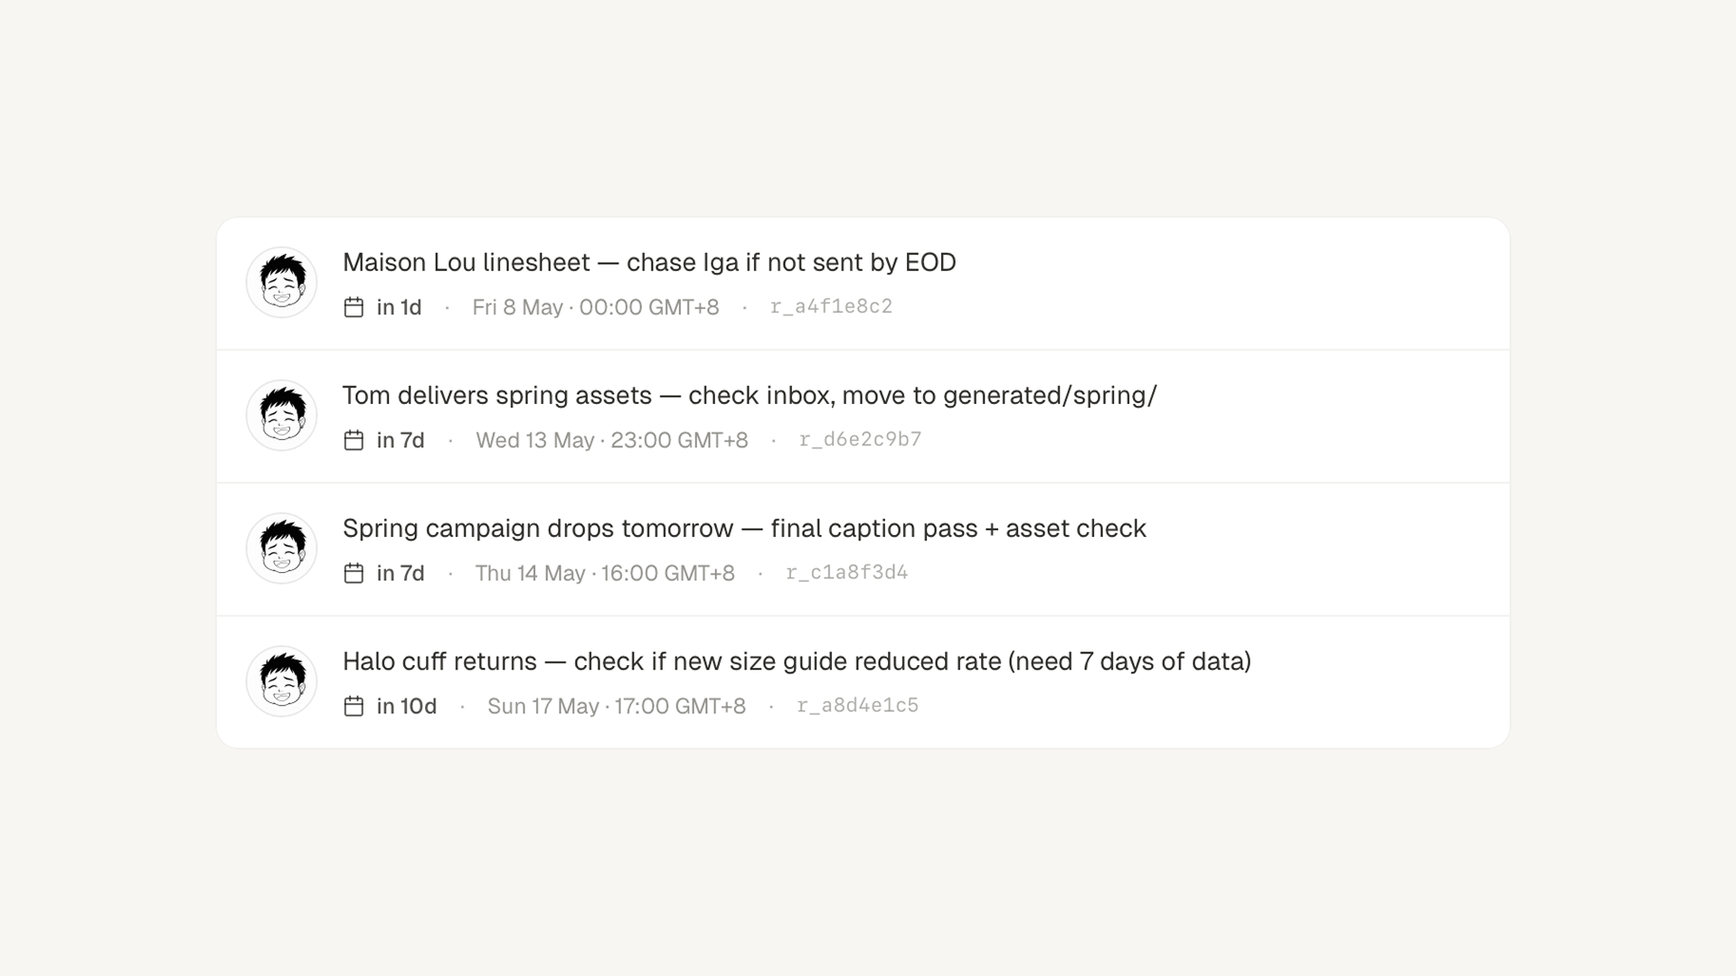
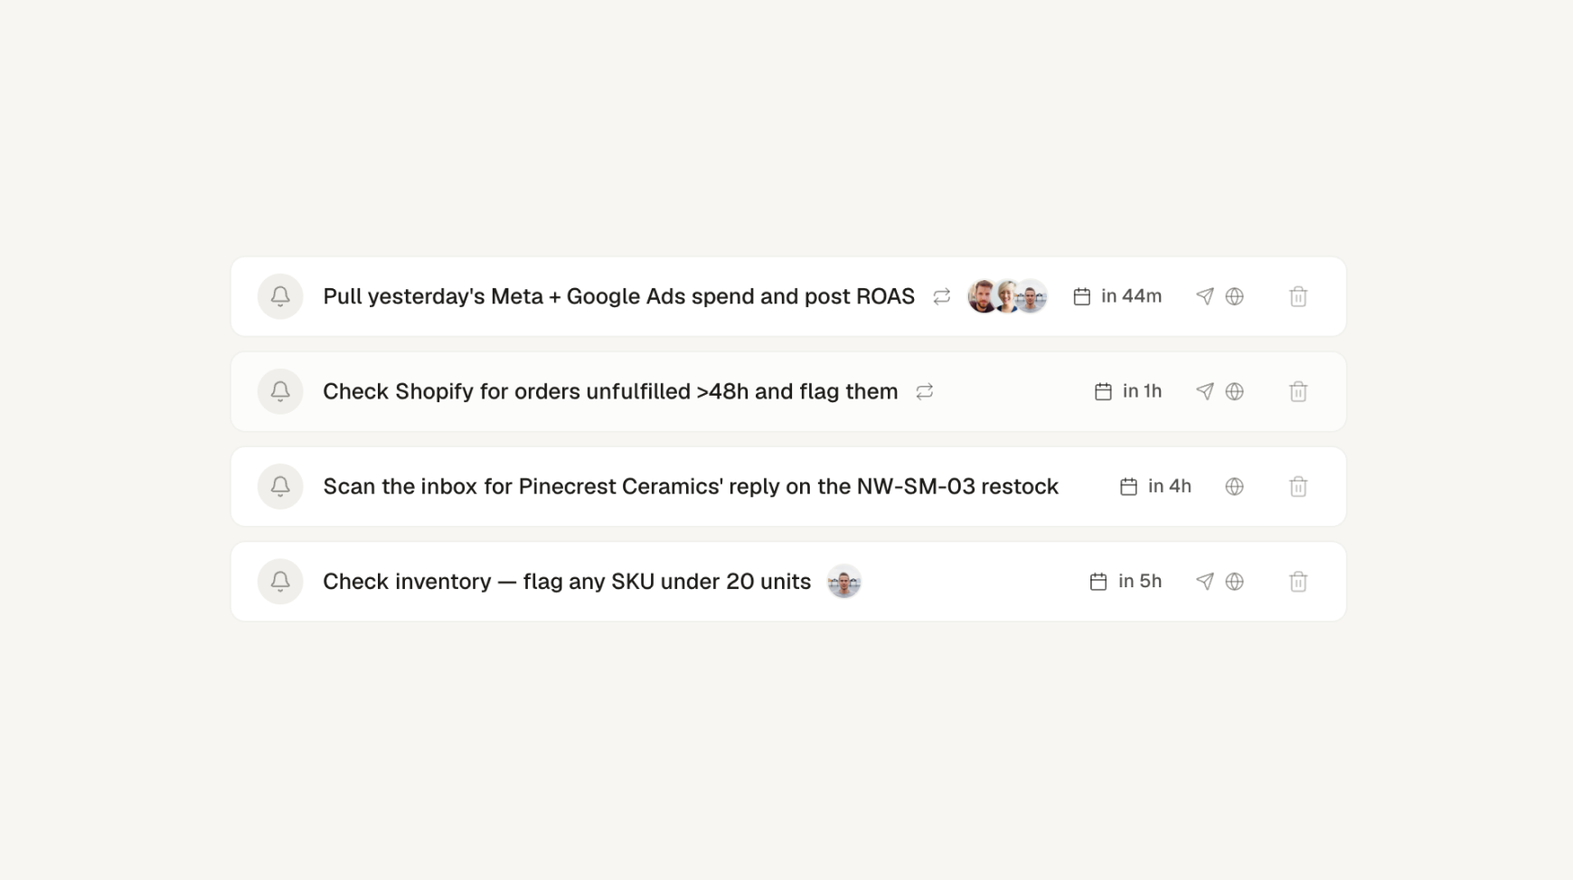
docs(readme): tighten copy throughout and refresh screenshots
- Trim verbose sections (Talk anywhere, Team, Memory, Editor)
- Smooth the What-they-do lead-in into the bullet list
- Reframe positioning to evoke the agent paradigm without claiming the product itself is Claude Code
- De-jargon the Memory section (outcomes over internal script names)
- Swap in the new ecommerce screenshots

diff --git a/README.md b/README.md
@@ -1,7 +1,7 @@
 <h1 align="center">Something</h1>
 
 <p align="center">
-  <b>Your own AI coworker. Runs 24/7. Knows your business.</b>
+  <b>Your own AI coworker. Runs 24/7, knows your business, works with your team.</b>
 </p>
 
 <p align="center">
@@ -23,27 +23,39 @@
 <br/>
 
 <p align="center">
-  <img src="assets/hero.png" alt="Something" width="820" />
+  <img src="assets/hero.png" alt="The web workspace: file vault, markdown editor, embedded chat" width="820" />
 </p>
 
 <p align="center">
-  A coworker that knows your context — your tools, your customers, your goals.<br/>
-  You talk to them through Telegram or a private web workspace. They act on your behalf, not just answer.
+  A coworker that knows your context: your tools, your customers, your goals.<br/>
+  You reach it on Telegram or a private web workspace, and it acts on your behalf, not just answers.
 </p>
 
 <br/>
 <br/>
 
 ## What they do
-- **Have their own name and personality.** Set up once during the first-login wizard.
-- **Live on Telegram and the web.** Pick one or both. Same memory, same context.
-- **Remember between sessions.** Markdown notes, a knowledge graph, recent threads.
-- **Act on your tools.** Pull Shopify orders, draft Gmail replies, schedule Instagram posts, query GA4. You approve before anything goes out.
-- **Ping you proactively.** Restock alerts, weekly reports, deadlines. They schedule their own follow-ups.
-- **Write their own playbooks.** *Skills* (markdown files) describe how to handle recurring tasks. Editable from the UI.
-- **Track tasks with you.** A `Tasks.md` becomes a list-or-board view with owner, priority, and deadline — your coworker keeps it up to date as work moves.
-- **Work as your whole team's coworker.** Turn on collaborative mode and everyone signs in with their own account — each with a private space beside the shared one — while your coworker routes reminders, tasks, and messages to the right person.
 
+Everything you'd reach for to automate your work (markdown for context, skills for playbooks, MCP for tools), but off the terminal: a calm UI, always on, shared with your team. 
+
+Your coworkers:
+
+- **Have a name and a personality.** Set once in the first-login wizard.
+- **Live on Telegram and the web.** Pick one or both; same memory either way.
+- **Remember between sessions.** Markdown notes, a knowledge graph, recent threads.
+- **Act on your tools.** Pull Shopify orders, draft Gmail replies, schedule Instagram posts, query GA4, and ask before anything goes out.
+- **Reach out first.** Restock alerts, weekly reports, deadlines; they schedule their own follow-ups.
+- **Write their own playbooks.** A *skill* is a markdown file describing how to handle a recurring task, editable right from the UI.
+- **Keep the task list moving.** Your `Tasks.md` becomes a list or board view with owner, priority, and deadline, kept current as work progresses.
+- **Work with your whole team.** Turn on collaborative mode: everyone signs in with their own account and a private space beside the shared one, and your coworker routes reminders, tasks, and messages to the right person.
+
+<br/>
+
+## Why it's different
+
+- **Built for the whole team, not just engineers.** The power of a terminal AI agent, in a calm UI that non-technical people actually live in.
+- **It reasons, it doesn't just route.** Not if-this-then-that automation. It reads the situation, pulls from your tools, decides what to do, then asks before anything goes out.
+- **Your server, your data, full source.** Self-hosted on a box you control, one per business. You hand it your inbox, store, and ads, so everything it does with that access is public and auditable.
 
 <br/>
 
@@ -51,7 +63,7 @@
 
 ## Get started
 
-**You'll need:** a Linux server (from ~€4.50/mo), a domain, a Google account, and a **paid Claude plan** (Pro or Max). Run the installer from macOS or Linux — on Windows, use WSL2.
+**You'll need:** a Linux server (from ~€4.50/mo), a domain, a Google account, and a **paid Claude plan** (Pro or Max). Run the installer from macOS or Linux (on Windows, use WSL2).
 
 Then, from your own computer, run:
 
@@ -59,7 +71,7 @@ Then, from your own computer, run:
 curl -fsSL https://raw.githubusercontent.com/stanislawherjan1/Something/main/install.sh | bash
 ```
 
-Prefer to read it before running? Download, skim, then execute — same result:
+Prefer to read it before running? Download, skim, then execute for the same result:
 
 ```bash
 curl -fsSL https://raw.githubusercontent.com/stanislawherjan1/Something/main/install.sh -o install.sh
@@ -67,32 +79,32 @@ less install.sh    # review exactly what it does
 bash install.sh
 ```
 
-The installer guides you through setup interactively. It asks for your Google sign-in app, server address, domain, and admin email, then deploys. Plan for ~45–60 minutes end to end — most of it waiting on the server, DNS, and the first build.
+The installer is interactive: it asks for your Google sign-in app, server address, domain, and admin email, then deploys. Plan for 45-60 minutes end to end, most of it waiting on the server, DNS, and the first build.
 
 First time renting a server or pointing a domain? **[Full step-by-step guide →](docs/QUICK_START.md)**
 
-**Not comfortable in the terminal?** Open this repo in an AI coding tool — [Claude Code](https://www.anthropic.com/claude-code), Cursor, or Codex — and ask it to run the installer, read back any errors, and even customize the project for you. You still create the accounts (Google, server, domain); the agent drives the rest.
+**Not comfortable in the terminal?** Open this repo in an AI coding tool ([Claude Code](https://www.anthropic.com/claude-code), Cursor, or Codex) and ask it to run the installer, read back errors, and customize the project for you. You create the accounts (Google, server, domain); the agent does the rest.
 
 <br/>
 
 ## Demo
 
 <p align="center">
-  <img src="assets/workspace.png" alt="The web workspace — file vault, markdown editor, embedded chat" width="820" />
+  <img src="assets/workspace.png" alt="The web workspace: file vault, markdown editor, embedded chat" width="820" />
 </p>
 
 <br/>
 
 ## Talk to them anywhere
 
-Your coworker is one mind with two front doors — a **Telegram** DM and the **web workspace chat**. Same name, same memory, same context, whichever you reach for.
+Your coworker is one mind with two front doors: a **Telegram** DM and the **web workspace chat**. Same name, same memory, same context, whichever you reach for.
 
-- **Telegram** — message them like any contact. Best for on-the-go asks and getting pinged wherever you are.
-- **Web chat** — a full workspace alongside your files, skills, and dashboards. Each conversation is its own thread, so a dozen lines of work can run in parallel without blurring together.
+- **Telegram**: message them like any contact. Best for on-the-go asks and getting pinged wherever you are.
+- **Web chat**: a full workspace alongside your files, skills, and dashboards. Each conversation is its own thread, so a dozen lines of work can run in parallel without blurring together.
 
-It's all connected. What you told them in Telegram is there when you open the web chat later, and what you worked through on the web is there back in Telegram. Each thread stays its own conversation, but your coworker keeps cross-surface awareness — it sees what recently happened on the other channel and draws on it when relevant, instead of mistaking a separate conversation for a direct continuation of this one.
+It's all connected. What you said on Telegram is there when you open the web chat, and the other way round. Each thread stays its own conversation, but your coworker keeps cross-surface awareness: it knows what recently happened on the other channel and draws on it when it helps.
 
-Proactive messages travel the same paths. When a scheduled job wraps or a reminder comes due, your coworker reaches you on Telegram, in the web app, or both — and a web ping arrives as a notification you can click straight into the thread it came from.
+Proactive messages travel the same paths. When a job finishes or a reminder comes due, your coworker pings you on Telegram, in the web app, or both; a web ping is a notification you click straight into its thread.
 
 <br/>
 
@@ -101,34 +113,54 @@ Proactive messages travel the same paths. When a scheduled job wraps or a remind
 ## One coworker, your whole team
 
 <p align="center">
-  <img src="assets/team.png" alt="Team dashboard — roster with roles and avatars, channel links, and the Shared / Your Files split" width="820" />
+  <img src="assets/team.png" alt="Team dashboard, roster with roles and avatars, channel links, and the Shared / Your Files split" width="820" />
 </p>
 
 <br/>
 
-Flip on **collaborative mode** and your coworker stops being only *yours* — it becomes the team's, while still knowing each of you as an individual. Everyone signs in with their own Google account; an admin keeps the roster: invite people, set roles (admin, member, observer), link their Telegram.
+Flip on **collaborative mode** and your coworker stops being only *yours*; it becomes the team's, while still knowing each of you as an individual. Everyone signs in with their own Google account, and an admin keeps the roster: invite people, set roles (admin or member), link their Telegram.
 
 Now there's a shared workspace and a private one for each person, side by side:
 
-- **Shared** — the files, the task board, and the team-wide memory everyone works from.
-- **Yours** — your own files and your own memory cards, scoped to you. A teammate can't read them, and your coworker won't go digging through them on someone else's behalf.
+- **Shared**: the files, the task board, and the team-wide memory everyone works from.
+- **Yours**: your own files and your own memory cards, scoped to you. A teammate can't read them, and your coworker won't go digging through them on someone else's behalf.
 
-The instinct is collaboration, not secrecy: ask *"did Mara finish the report?"* and your coworker answers from the shared work — privacy is the exception, not the first reflex.
+The default is collaboration, not secrecy: ask *"did Mara finish the report?"* and it answers from the shared work. Private cards are the exception, and they stay private.
 
-Because it knows the whole team, it routes work to the right person — and carries messages between you:
+Because it knows the whole team, it routes work to the right person, and carries messages between you:
 
-> **You** — Remind Mara to send the review tomorrow morning.<br/>
-> **Coworker** — Done. I'll ping Mara at 9:00 tomorrow — in her workspace, and on Telegram since that's how she likes to be reached.
+> **You:** Remind Mara to send the review tomorrow morning.<br/>
+> **Coworker:** Done. I'll ping Mara at 9:00 tomorrow, in her workspace, and on Telegram since that's how she likes to be reached.
 
-Reminders and tasks can be aimed at one teammate (or at *everyone*); a task's owner is a real face on the board. And you can talk *through* your coworker to a colleague — it delivers the message into their workspace or Telegram, in their language, phrased like a person rather than a forwarded memo.
+Reminders and tasks can target one teammate or *everyone*, and a task's owner is a real face on the board. You can also talk *through* your coworker: it delivers your message into a colleague's workspace or Telegram, in their language, phrased like a person, not a forwarded memo.
 
-Solo setups are untouched: with team mode off there are no roles, no split, no routing — the clean single-user workspace stays exactly as it was. Full design — roster and roles, file and memory scoping, per-recipient delivery, cross-surface relay, and the privacy model — in **[docs/TEAM_MODE.md](docs/TEAM_MODE.md)**.
+Solo setups are untouched: team mode off means no roles, no split, no routing, just the clean single-user workspace. Full design in **[docs/TEAM_MODE.md](docs/TEAM_MODE.md)**.
+
+<br/>
+
+## A real editor, your coworker writes to it too
+
+<p align="center">
+  <img src="assets/editor.png" alt="The native markdown editor, checklists, formatting toolbar, and clickable file paths" width="820" />
+</p>
+
+<br/>
+
+Everything your coworker knows is plain markdown: notes, skills, memory, reports. The web app opens it in a clean, Notion-style editor (headings, checklists, tables, slash commands), but saves byte-for-byte markdown on disk, so git diffs and the bot's own edits stay clean.
+
+It's a shared surface. You and your coworker edit the **same** files: write a launch checklist and the bot ticks items off as it does the work; ask it to draft a report, then polish it yourself. When it changes a file you have open, the edit flashes in live, and file paths (in chat or in a note) are clickable: mention `Products/pricing.md` and it opens.
 
 <br/>
 
 ## Skills
 
-A *Skill* is a markdown file that tells your coworker how to handle one recurring task — like a job description for a single responsibility.
+<p align="center">
+  <img src="assets/skills.png" alt="Skills dashboard, reusable playbooks the coworker runs, each with its integration badge" width="820" />
+</p>
+
+<br/>
+
+A *Skill* is a markdown file that tells your coworker how to handle one recurring task, like a job description for a single responsibility.
 
 ```markdown
 ---
@@ -137,7 +169,7 @@ description: Every Monday, pull the last 7 days of Meta + Google Ads and post a 
 ---
 
 Compare ROAS to the previous week. Flag any campaign that dropped >20%.
-Surface 2–3 budget moves. Save to Reports/.
+Surface 2-3 budget moves. Save to Reports/.
 ```
 
 Create, edit, and delete skills from the dashboard. Integration-specific skills auto-install when the matching integration is activated. See [docs/SKILLS.md](docs/SKILLS.md).
@@ -147,31 +179,31 @@ Create, edit, and delete skills from the dashboard. Integration-specific skills 
 ## Reminders
 
 <p align="center">
-  <img src="assets/reminders.png" alt="Reminders dashboard — pending pings with relative due time and timezone" width="820" />
+  <img src="assets/reminders.png" alt="Reminders dashboard, pending pings with relative due time and timezone" width="820" />
 </p>
 
 <br/>
 
-Tell your coworker when to ping you, and they will — once, daily, or weekly. Reminders survive container restarts, reach you on Telegram, in the web app, or both, and live in a tidy dashboard you can edit by hand.
+Tell your coworker when to ping you, and they will: once, daily, or weekly. Reminders survive container restarts, reach you on Telegram, in the web app, or both, and live in a tidy dashboard you can edit by hand.
 
-> **You** — Remind me to chase Maison Lou about the linesheet tomorrow at 4pm.<br/>
-> **Coworker** — Set. I'll ping you tomorrow at 16:00.
+> **You:** Each morning, check Shopify for orders stuck unfulfilled over 48h and flag them.<br/>
+> **Coworker:** Done. I'll run that daily at 9:00 and ping you with anything stuck.
 
-Your coworker also schedules their own — a Monday board review, a first-of-the-month revenue pull — whenever a recurring rhythm makes sense.
+Your coworker also schedules its own (a Monday ad-spend review, a first-of-the-month revenue pull) whenever a recurring rhythm makes sense.
 
 <br/>
 
 ## Memory
 
 <p align="center">
-  <img src="assets/memory.png" alt="Memory dashboard — graph of cards, topics, and rolling snapshots" width="820" />
+  <img src="assets/memory.png" alt="Memory dashboard, graph of cards, topics, and rolling snapshots" width="820" />
 </p>
 
 <br/>
 
-Your coworker doesn't start from zero every conversation. A small markdown wiki under `project/memory/` holds the basics — who you are, who's on your team, what your hard rules are, what the active integrations can do — plus rolling snapshots of your most recent web + Telegram exchanges. The whole block is loaded into the bot's system prompt on every turn so you never have to re-explain context. In a [team workspace](#team) this memory splits the way the files do — shared cards the whole team works from, plus private cards that are only yours.
+Your coworker doesn't start from zero each conversation. A small markdown wiki under `project/memory/` holds the basics (who you are, your team, your hard rules, what each integration can do) plus rolling snapshots of recent web and Telegram exchanges. It loads into the system prompt every turn, so you never re-explain context. In a [team workspace](#team) it splits like the files do: shared cards everyone works from, private cards that are only yours.
 
-Open **AI Settings → Memory** to see it as a graph: cards (facts), topic pages (long-form), and the two auto-maintained rolling snapshots, all linked together. Click any node to see the file, search to highlight, and let the bot maintain itself — `reflect-learnings` writes new facts after each session, `reflect-organizer` promotes overgrown card sections to topic pages, `taste-recall` reminds the bot of past mistakes before it repeats them.
+Open **AI Settings → Memory** to see it as a graph: cards (facts), topic pages (long-form), and the rolling snapshots, all linked. Click a node to open the file, or search to highlight. The bot maintains it itself: writing new facts after each session, promoting overgrown sections to their own pages, and reminding itself of past mistakes before it repeats them.
 
 Inspired by [Karpathy's LLM-wiki](https://gist.github.com/karpathy/442a6bf555914893e9891c11519de94f) pattern, and built in collaboration with [@jandziew](https://github.com/jandziew). Full design + operational guide in [docs/MEMORY.md](docs/MEMORY.md).
 
@@ -180,7 +212,7 @@ Inspired by [Karpathy's LLM-wiki](https://gist.github.com/karpathy/442a6bf555914
 ## Integrations
 
 <p align="center">
-  <img src="assets/integrations.png" alt="Shopify · Gmail · Gemini · Google Ads · Meta — and more" width="820" />
+  <img src="assets/integrations.png" alt="Shopify · Gmail · Gemini · Google Ads · Meta, and more" width="820" />
 </p>
 
 <br/>
@@ -190,42 +222,42 @@ Inspired by [Karpathy's LLM-wiki](https://gist.github.com/karpathy/442a6bf555914
 | Shopify | Orders, products, inventory; draft orders, fulfillments |
 | Meta Ads | Instagram + Facebook ads, campaigns, audiences, Page/IG insights |
 | Google Ads | Campaigns, ad groups, keywords, Keyword Planner, reports |
-| Google Analytics 4 | Traffic, events, conversions — queried from chat |
-| Google Workspace | Docs, Sheets, Calendar, Drive, Slides, Tasks — one OAuth, six services |
+| Google Analytics 4 | Traffic, events, conversions, queried from chat |
+| Google Workspace | Docs, Sheets, Calendar, Drive, Slides, Tasks, one OAuth, six services |
 | Email (IMAP) | Multi-account inbox (Gmail / Zoho / custom); read by default, sending opt-in |
 | Trello | Cards, comments, labels, move between columns |
 | GitHub | Repos, issues, pull requests |
 | Substack | Posts, authors, Notes; optional write access |
 | X | Tweets, profiles, replies, mentions (via twitterapi.io) |
-| Grok (xAI) | Live X + web search — real-time takes, fact-checks |
+| Grok (xAI) | Live X + web search, real-time takes, fact-checks |
 | OpenAI (GPT) · Gemini | Second opinions from GPT-5 / Gemini 2.5 |
-| Image generation | Seedream 4.5 + Google Imagen 3 / Gemini — generate & edit |
+| Image generation | Seedream 4.5 + Google Imagen 3 / Gemini, generate & edit |
 | SignWell | Send documents for e-signature |
 | Docs Comments | Inline comments anchored to text in Google Docs |
 
-You activate each one from the Integrations dashboard — no redeploy, no `.env` editing. Credentials are encrypted at rest; removing an integration wipes the secret. Setup details in [docs/INTEGRATIONS.md](docs/INTEGRATIONS.md).
+You activate each one from the Integrations dashboard, no redeploy, no `.env` editing. Credentials are encrypted at rest; removing an integration wipes the secret. Setup details in [docs/INTEGRATIONS.md](docs/INTEGRATIONS.md).
 
 <br/>
 
 ## Self-hosted, end-to-end
 
-Each client gets their own server. One per business, isolated by design — your data, your coworker, your tools, nobody else's. They live there 24/7 listening for Telegram messages; the web workspace runs at your own subdomain, gated by Google login and a team whitelist.
+Each client gets their own server. One per business, isolated by design: your data, your coworker, your tools, nobody else's. They live there 24/7 listening for Telegram messages; the web workspace runs at your own subdomain, gated by Google login and a team whitelist.
 
-Every line of code is public. You give your coworker access to your inbox, your store, your ads — you should be able to see exactly what they do with that access. Architecture in [docs/ARCHITECTURE.md](docs/ARCHITECTURE.md), threat model in [docs/SECURITY.md](docs/SECURITY.md).
+Every line of code is public. You give your coworker access to your inbox, your store, your ads, so you should be able to see exactly what they do with that access. Architecture in [docs/ARCHITECTURE.md](docs/ARCHITECTURE.md), threat model in [docs/SECURITY.md](docs/SECURITY.md).
 
 <br/>
 
 ## Deploy your own
 
-Requires a Hetzner VPS (from ~€4.50/mo), a domain, and a paid Claude plan. Nothing runs locally — `deploy.sh` SSHs into the VPS and builds there.
+Requires a Hetzner VPS (from ~€4.50/mo), a domain, and a paid Claude plan. Nothing runs locally; `deploy.sh` SSHs into the VPS and builds there.
 
-**The easy way** — the interactive installer (see [Get started](#get-started)):
+**The easy way**: the interactive installer (see [Get started](#get-started)):
 
 ```bash
 curl -fsSL https://raw.githubusercontent.com/stanislawherjan1/Something/main/install.sh | bash
 ```
 
-**The manual way** — once a client dir exists, deploy is a one-liner:
+**The manual way**: once a client dir exists, deploy is a one-liner:
 
 ```bash
 cd clients/my-client && ./deploy.sh
@@ -238,15 +270,15 @@ Beginner walkthrough in [docs/QUICK_START.md](docs/QUICK_START.md). End-to-end m
 ## Docs
 
 **Start here**
-- **[QUICK_START.md](docs/QUICK_START.md)** — first deployment, beginner-friendly: buy a server, point a domain, one command. Start here if it's your first time.
-- [NEW_CLIENT.md](docs/NEW_CLIENT.md) — the manual, click-by-click version of the same flow; also how an operator onboards additional deployments with full control over each step.
+- **[QUICK_START.md](docs/QUICK_START.md)**, first deployment, beginner-friendly: buy a server, point a domain, one command. Start here if it's your first time.
+- [NEW_CLIENT.md](docs/NEW_CLIENT.md), the manual, click-by-click version of the same flow; also how an operator onboards additional deployments with full control over each step.
 
 **Reference**
-- [INTEGRATIONS.md](docs/INTEGRATIONS.md) — the integration catalog, self-service activation, encrypted credentials
-- [SKILLS.md](docs/SKILLS.md) — reusable Claude playbooks + dashboard editor
-- [MEMORY.md](docs/MEMORY.md) — Karpathy-style LLM-wiki: cards, topics, rolling snapshots, reflect-bots
-- [TEAM_MODE.md](docs/TEAM_MODE.md) — collaborative workspaces: roster & roles, Shared vs Personal files/memory, per-recipient reminders, task assignment, cross-surface relay
-- [ARCHITECTURE.md](docs/ARCHITECTURE.md) — system design and data flows (with a glossary up top)
-- [SECURITY.md](docs/SECURITY.md) — threat model, auth layers, vulnerability reporting
-- [DEPLOY.md](docs/DEPLOY.md) — production deployment & day-2 operations reference
-- [CONTRIBUTING.md](CONTRIBUTING.md) — conventions, PR vs direct push
+- [INTEGRATIONS.md](docs/INTEGRATIONS.md), the integration catalog, self-service activation, encrypted credentials
+- [SKILLS.md](docs/SKILLS.md), reusable Claude playbooks + dashboard editor
+- [MEMORY.md](docs/MEMORY.md), Karpathy-style LLM-wiki: cards, topics, rolling snapshots, reflect-bots
+- [TEAM_MODE.md](docs/TEAM_MODE.md), collaborative workspaces: roster & roles, Shared vs Personal files/memory, per-recipient reminders, task assignment, cross-surface relay
+- [ARCHITECTURE.md](docs/ARCHITECTURE.md), system design and data flows (with a glossary up top)
+- [SECURITY.md](docs/SECURITY.md), threat model, auth layers, vulnerability reporting
+- [DEPLOY.md](docs/DEPLOY.md), production deployment & day-2 operations reference
+- [CONTRIBUTING.md](CONTRIBUTING.md), conventions, PR vs direct push
